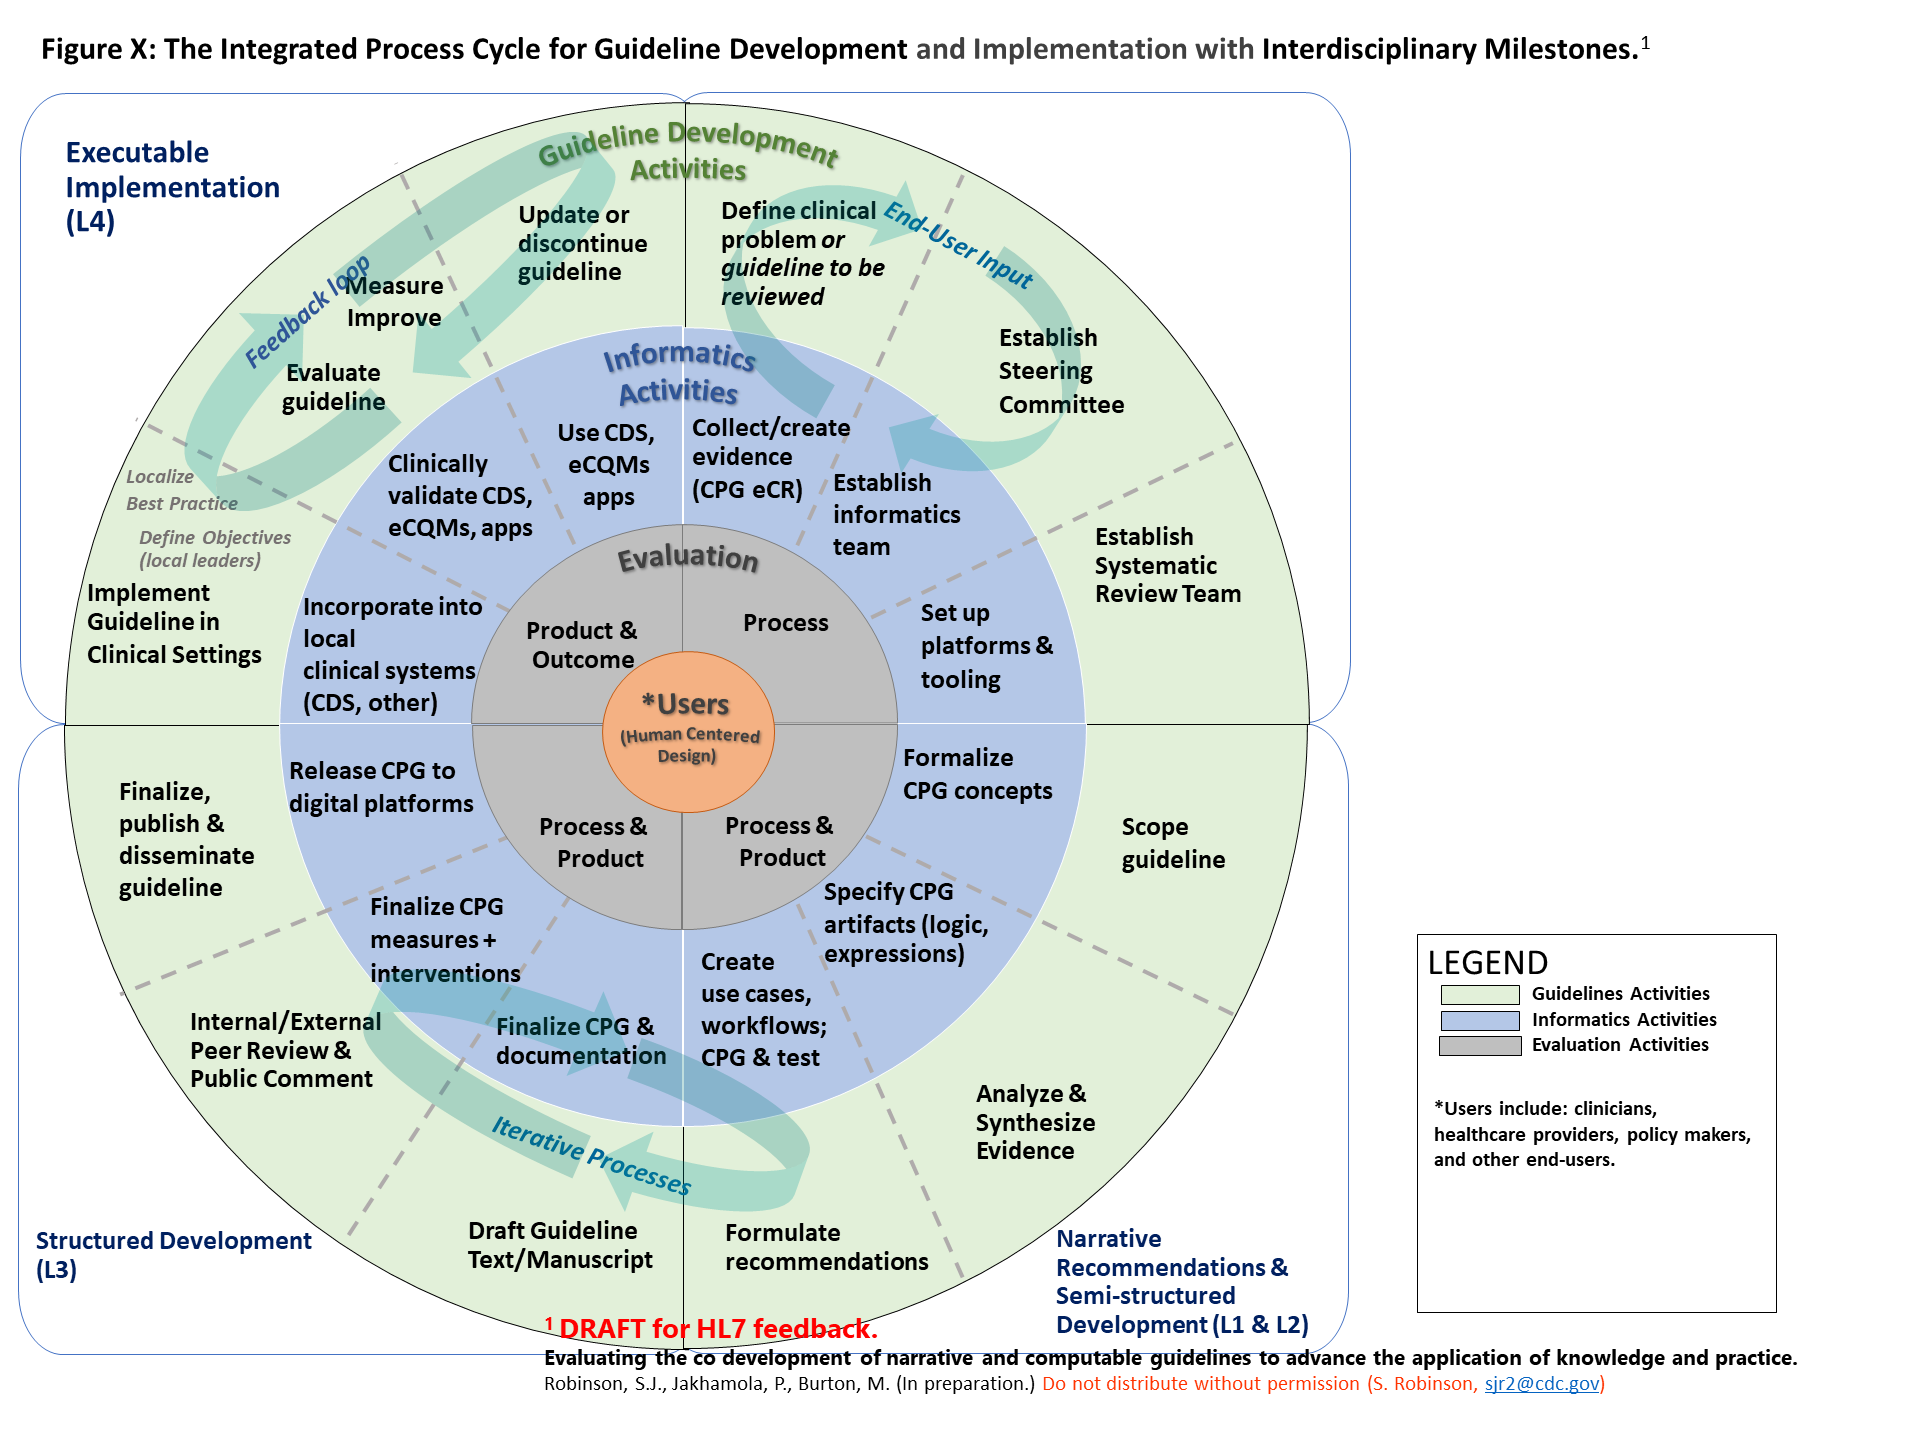
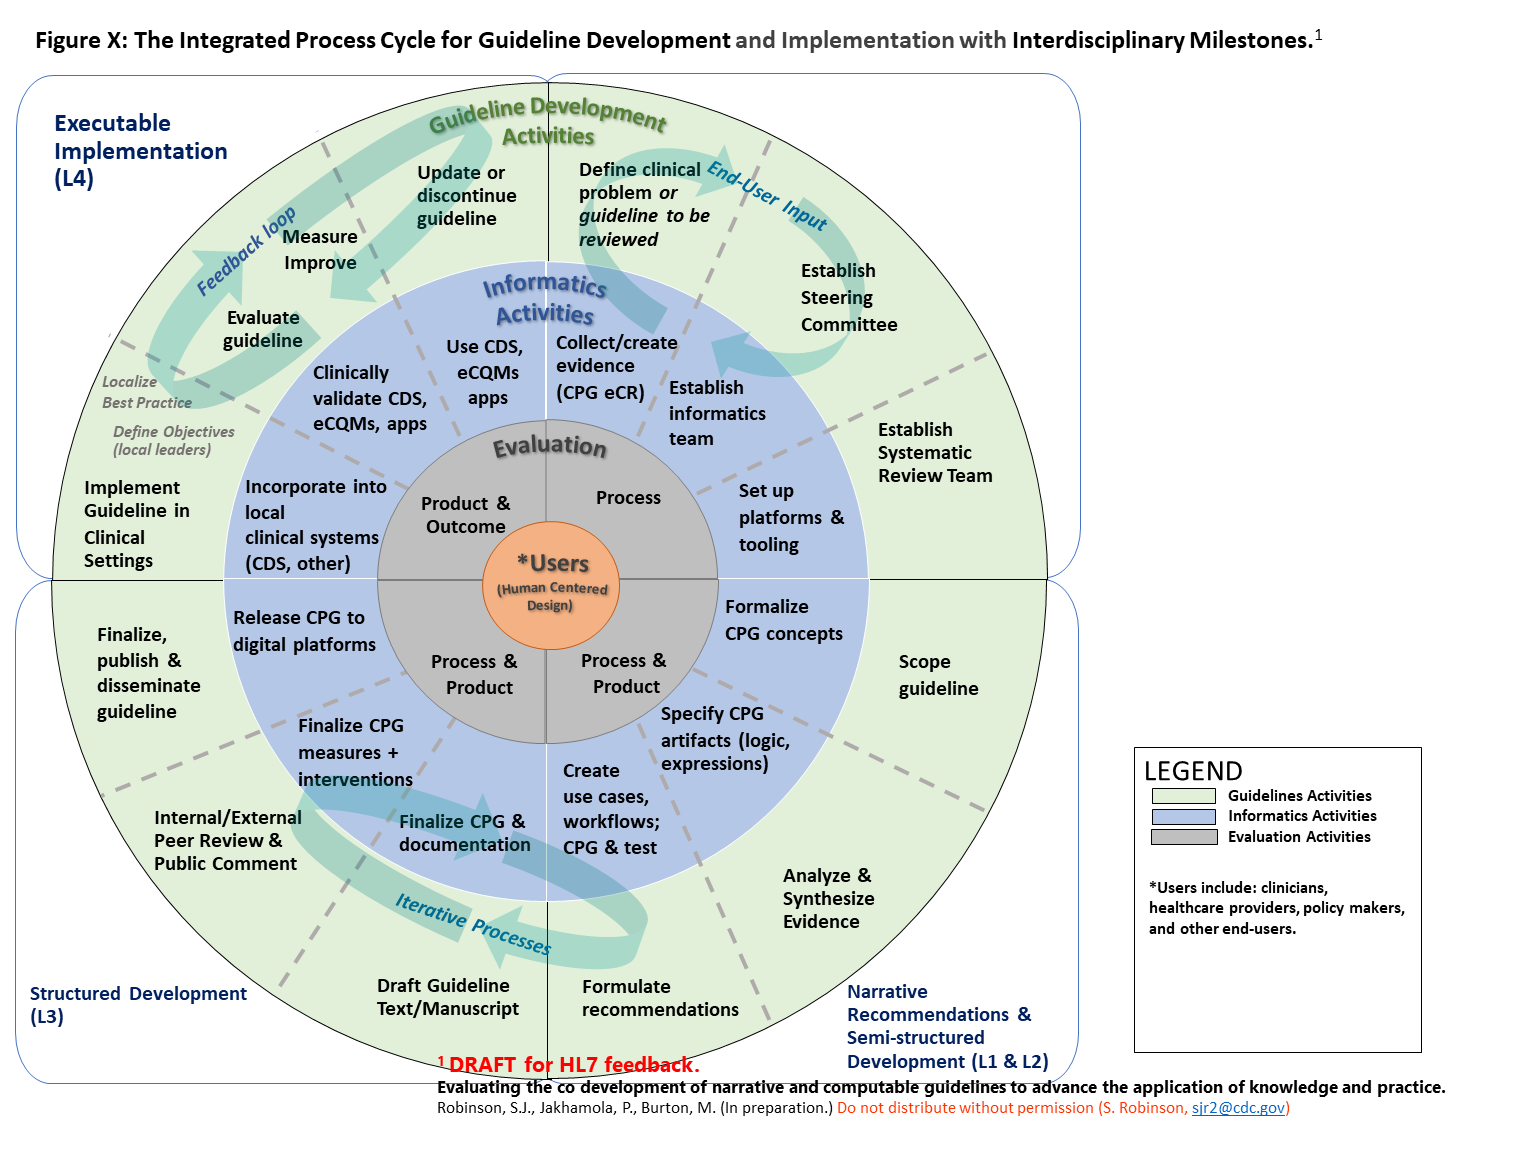
Edits from sjrobinson branch (can't merge due to conflicts from the fork)

diff --git a/pages/index.html b/pages/index.html
@@ -14,9 +14,9 @@
       </a>
   </h2>
 
-  <p>The FHIR Clinical Guidelines Implementation Guide (CPG IG) provides a means of creating a computable representation of a clinical guideline that is faithful to guideline intent and supports the derivation of downstream capabilities such as cognitive and decision support, quality measures, case reporting, and documentation templates that direct clinical documentation in support of determining guideline compliance.</p>
+  <p>The FHIR Clinical Guidelines Implementation Guide (CPG IG) provides a means of creating a computable representation of a narrative clinical guideline that is faithful to guideline intent and supports the derivation of downstream capabilities such as cognitive and decision support, quality measures, case reporting, and documentation templates that direct clinical documentation in support of determining guideline compliance.</p>
 
-  <p>This implementation is organized into the following sections, accessible via the menu bar at the top of every page:</p>
+  <p>This implementation guide is organized into the following sections, accessible via the menu bar at the top of every page:</p>
 
 	<ul>
 		<li><a href="index.html">Home</a>: The home page provides summary, introductory, and background information</li>
@@ -24,7 +24,7 @@
 		<li><a href="methodology.html">Methodology</a>: Describes methodologies for developing computable guideline content</li>
 		<li><a href="profiles.html">Profiles</a>: Describes expectations for use and an index of the profiles and extensions used in representing computable guideline content</li>
 		<li><a href="terminology.html">Terminology</a>: Describes expectations for the use of terminology as part of computable guideline content</li>
-		<li><a href="libraries.html">Libraries</a>: Describes expectations for the use of libraries as part of computable guideline content</li>
+		<li><a href="libraries.html">Libraries</a>: Describes expectations for the use of libraries of computable expressions (e.g. CQL) as part of computable guideline content</li>
 		<li><a href="examples.html">Examples</a>: Index of examples and example artifacts</li>
 		<li><a href="downloads.html">Downloads</a>: Downloads for the specification</li>
 		<li><a href="hl7.org/fhir/uv/cpg/history.cfml">Version History</a>: Index of all versions of this implementation guide</li>

diff --git a/pages/documentation-approach-04-05-computable-guideline-artifacts.md b/pages/documentation-approach-04-05-computable-guideline-artifacts.md
@@ -32,7 +32,7 @@ Figure 04.05-01 represents how guideline developers, informaticians, implementer
 FIG 04.05-01: The Integrated Process Cycle for Guideline Development and Implementation with Interdisciplinary Milestones.[<sup>1</sup>](#1)
 </summary>
 
-<img src="assets/images/CPG-04.05-01.png" alt="Integrated Process Cycle" class="img-responsive img-rounded center-block" height="500" width="500"/>
+<img src="assets/images/CPG-04.05-01.png" alt="Integrated Process Cycle" class="img-responsive img-rounded center-block" height="600"/>
 
 </details>
 
